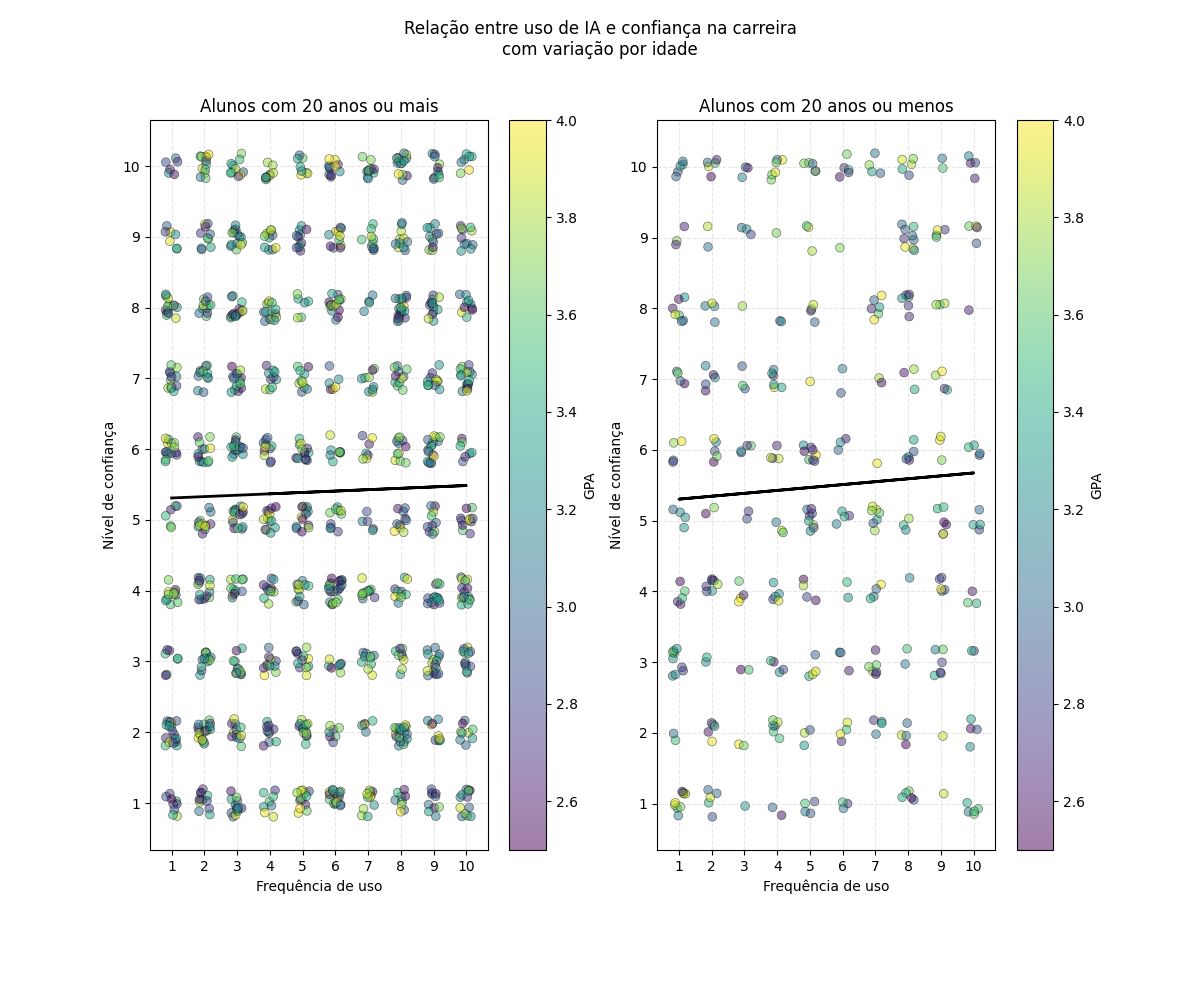
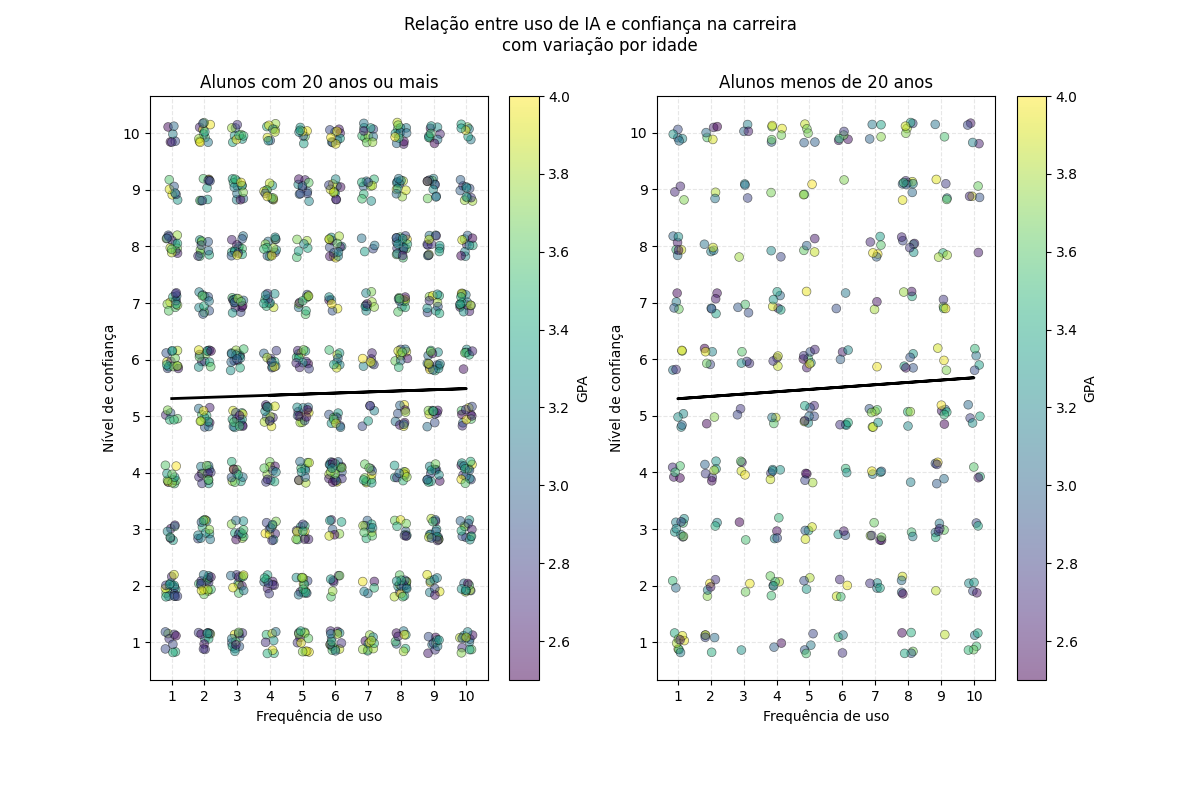
feature: correção
Correção de detalhes da figura: melhores legendas e tamanho ajustado.

diff --git a/analise1/analise1.py b/analise1/analise1.py
@@ -10,7 +10,7 @@ print(df_maior_20)
 print(df_menor_20)
 
 
-figura1 = plt.figure(figsize=(12,10))
+figura1 = plt.figure(figsize=(12,8))
 figura1.suptitle('Relação entre uso de IA e confiança na carreira\ncom variação por idade')
 
 # Gráfico para faixa de idade maior que 20 anos
@@ -46,7 +46,7 @@ plt.ylabel('Nível de confiança')
 plt.xticks(range(1,11))
 plt.yticks(range(1,11))
 plt.grid(linestyle='--',alpha=0.3,zorder=0)
-plt.title('Alunos com 20 anos ou menos')
+plt.title('Alunos menos de 20 anos')
 
 coef = np.polyfit(df_menor_20['Task_Frequency_Daily'],df_menor_20['Career_Confidence_Score'], 1)
 linha = np.poly1d(coef)